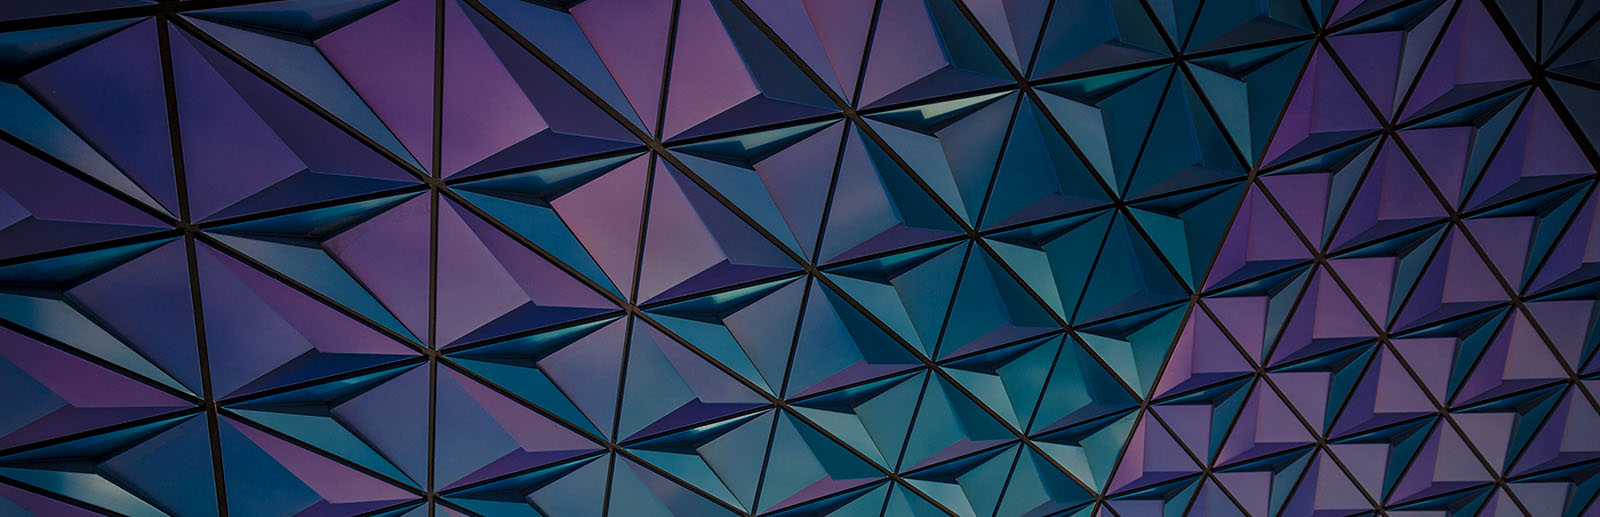
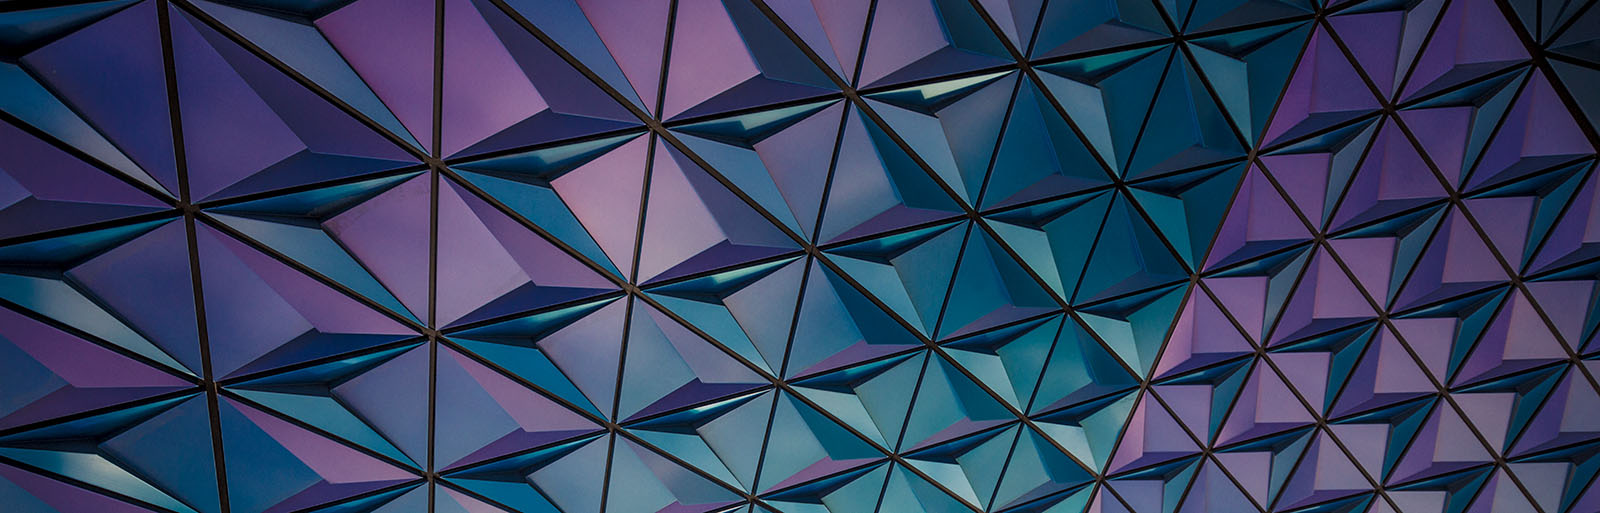
Improved parallax

diff --git a/themes/liquidbytes/layouts/_default/list.html b/themes/liquidbytes/layouts/_default/list.html
@@ -5,13 +5,13 @@
     <div class="section no-pad-bot">
         <div class="container">
             <h1 class="header center cyan-text text-lighten-3"><span class="dark-shadow">Despite all the fancy tools we have today, software projects fail as often as 15 years ago.</span></h1>
-            <div class="row center ">
-                <h5 class="header col s12 light">
-                    <span class="dark-shadow">
-                    More frameworks &amp; tools are not a solution.
-                    Instead we need to explore more humane ways of collaborating, establish a culture of continuous learning and strive for technical excellence.
-                    </span>
-                </h5>
+            <div class="row">
+            <h5 class="header center col s12 light">
+                <span class="dark-shadow">
+                More frameworks &amp; tools are not a solution.
+                Instead we need to explore more humane ways of collaborating, establish a culture of continuous learning and strive for technical excellence.
+                </span>
+            </h5>
             </div>
         </div>
     </div>

diff --git a/themes/liquidbytes/static/css/style.css b/themes/liquidbytes/static/css/style.css
@@ -107,15 +107,22 @@ p {
 }
 
 .parallax-container {
-    min-height: 270px;
+    min-height: 280px;
     line-height: 0;
     height: auto;
     color: white;
     margin-bottom: 20px;
 }
 
+.dark-shadow {
+    text-shadow: 1px 1px 1px black;
+    font-weight: 400;
+    line-height: 2rem;
+    display: inline;
+}
+
 .parallax-container .section {
-    padding-top: 40px;
+    padding-top: 60px;
     width: 100%;
 }
 
@@ -150,11 +157,6 @@ p {
 
 footer.page-footer {
     margin: 0;
-}
-
-.dark-shadow {
-    text-shadow: -2px 0px 2px rgba(0, 0, 0, 0.5),
-    2px 0px 2px rgba(0, 0, 0, 0.5);
 }
 
 a {
